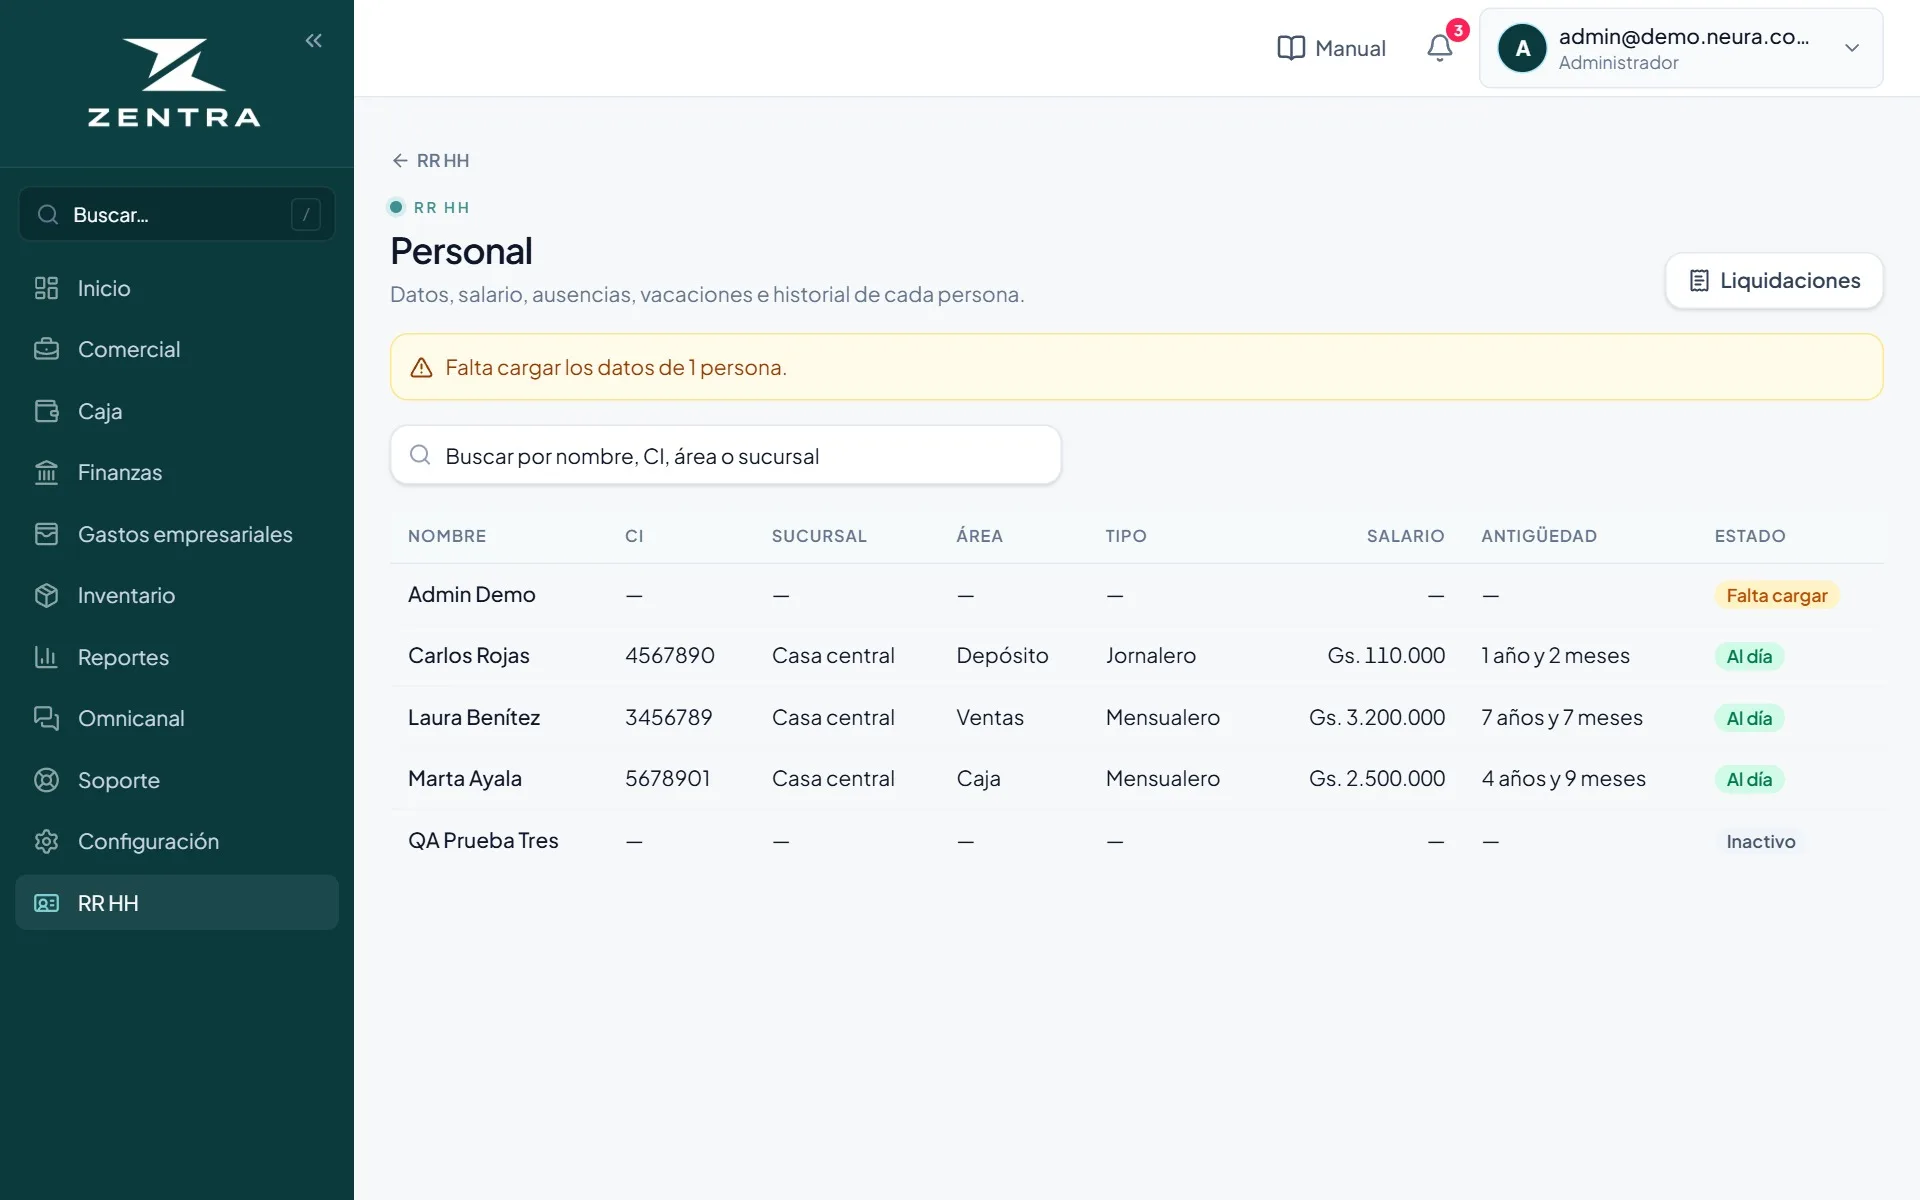
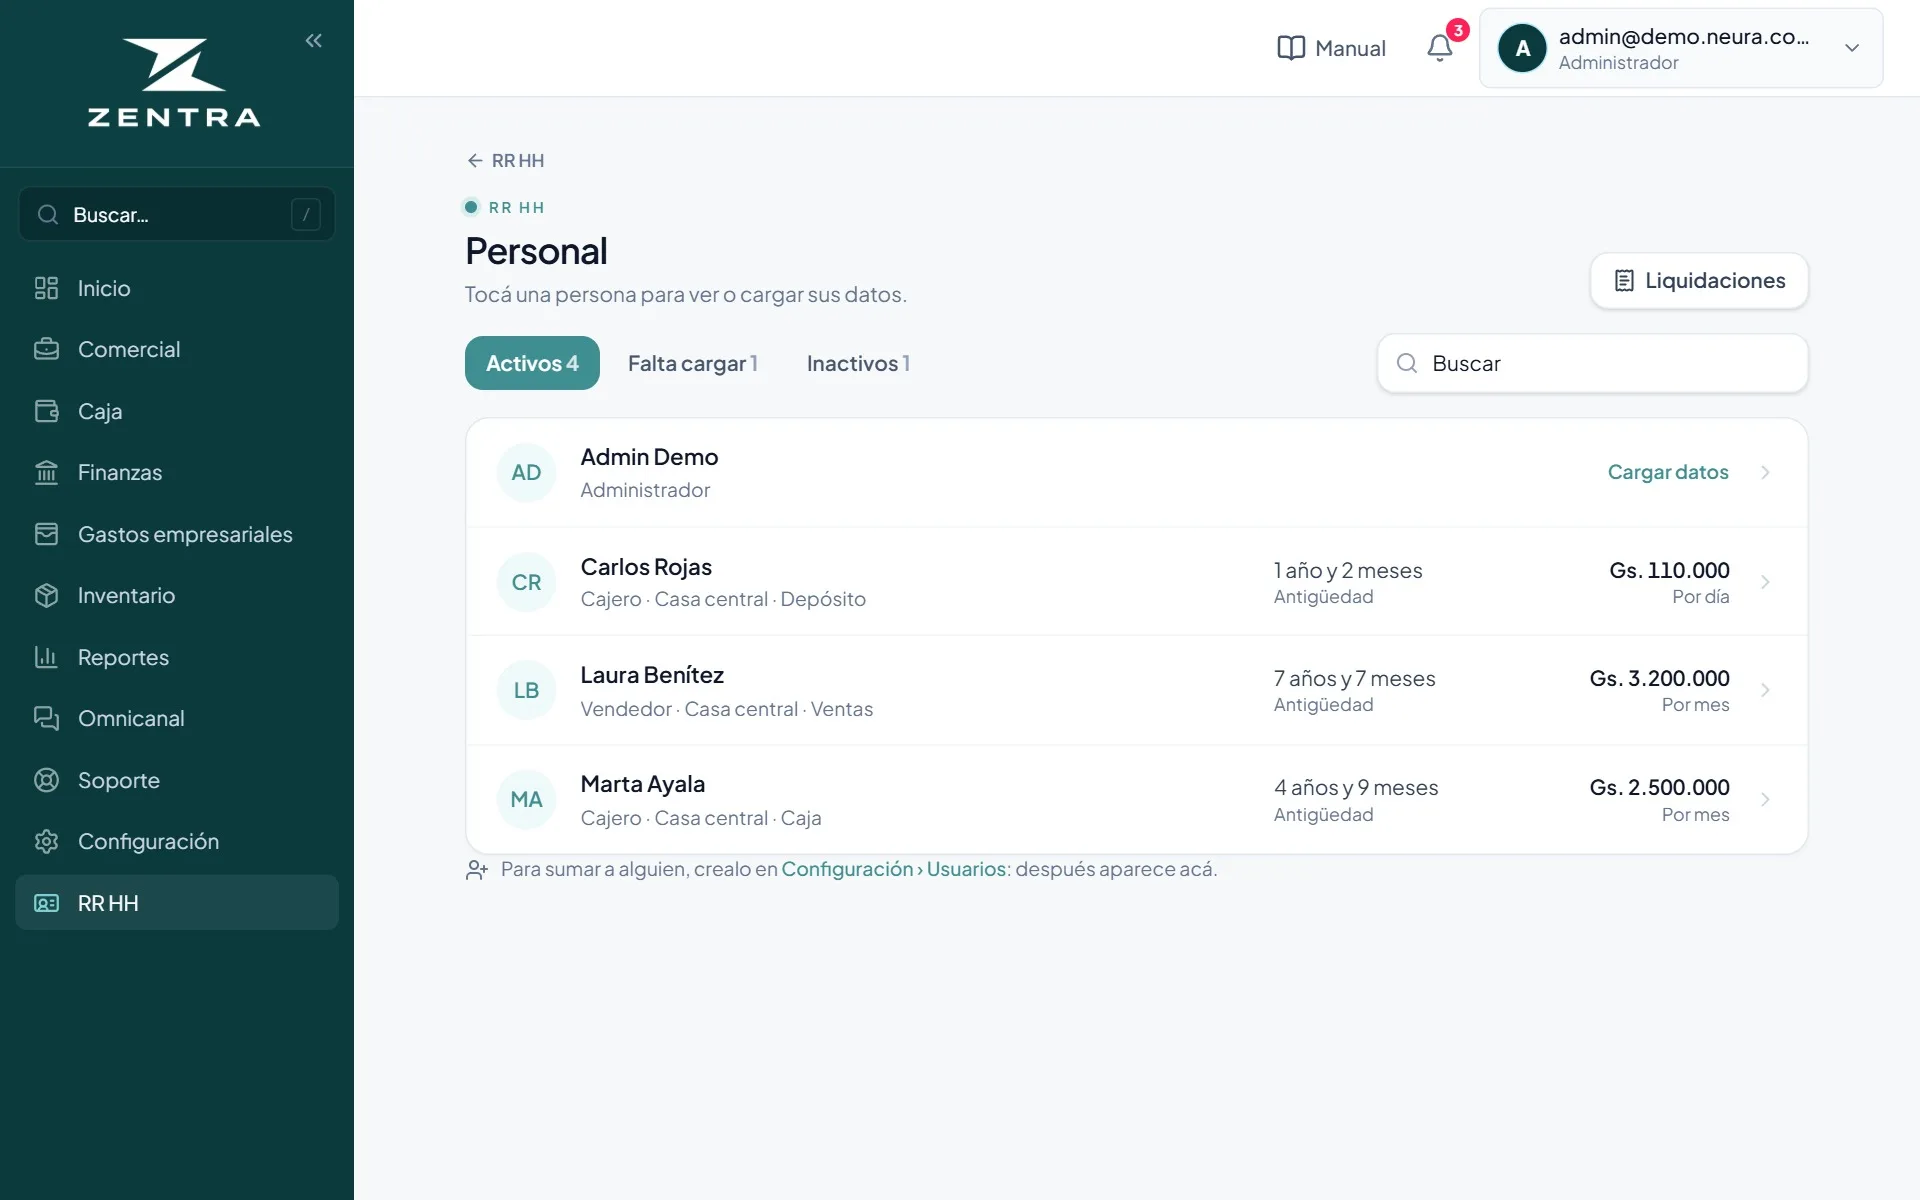
fix(2.0/rrhh): lista de Personal mas limpia
Lista de personas con iniciales y salario en lugar de la tabla con
columnas vacias; filtros por activos, falta cargar e inactivos.
Captura y guia del manual actualizadas.

diff --git a/src/app/(app)/rrhh/page.tsx b/src/app/(app)/rrhh/page.tsx
@@ -2,72 +2,113 @@
 
 /** /rrhh — Todos los usuarios del sistema con sus datos de RR HH (receta 118). Tocar uno abre su ficha. */
 import Link from "next/link";
-import { useRouter } from "next/navigation";
 import { useEffect, useMemo, useState } from "react";
-import { AlertTriangle, ReceiptText, Search } from "lucide-react";
+import { ChevronRight, ReceiptText, Search, UserPlus } from "lucide-react";
 import { apiFetch } from "@/lib/api/client-fetch";
 import { hoyPY } from "@/lib/fecha/paraguay";
 import { filtrar } from "@/lib/busqueda";
 import { EncabezadoPagina } from "@/components/EncabezadoPagina";
 import { gs } from "@/components/graficos/formato";
-import { TablaTarjetas } from "@/components/TablaResponsive";
 import { antiguedad, textoAntiguedad } from "@/modules/rrhh/calculo";
 import type { PersonaFila } from "@/modules/rrhh/tipos";
 import { BOTON, INPUT } from "@/modules/rrhh/ui";
 
+type Filtro = "activos" | "faltan" | "inactivos";
+
+const iniciales = (nombre: string) => nombre.trim().split(/\s+/).slice(0, 2).map((p) => p[0]?.toUpperCase() ?? "").join("");
+
+function Fila({ p, hoy }: { p: PersonaFila; hoy: string }) {
+  const detalle = [p.perfil, p.sucursal, p.area].filter(Boolean).join(" · ");
+  return (
+    <li>
+      <Link href={`/rrhh/${p.id}`} className="flex min-h-[72px] items-center gap-3 px-4 py-3 no-underline transition-colors hover:bg-slate-50 sm:gap-4 sm:px-5">
+        <span aria-hidden className={`grid h-10 w-10 shrink-0 place-items-center rounded-full text-sm font-semibold ${p.activo ? "bg-[var(--brand-50)] text-[var(--brand)]" : "bg-slate-100 text-slate-400"}`}>{iniciales(p.nombre)}</span>
+        <span className="min-w-0 flex-1">
+          <span className={`block truncate text-[15px] font-semibold ${p.activo ? "text-slate-900" : "text-slate-500"}`}>{p.nombre}</span>
+          {detalle ? <span className="mt-0.5 block truncate text-[13px] text-slate-500">{detalle}</span> : null}
+        </span>
+        {!p.activo ? (
+          <span className="shrink-0 text-[13px] font-medium text-slate-400">Inactivo</span>
+        ) : !p.tiene_legajo ? (
+          <span className="shrink-0 text-[13px] font-semibold text-[var(--brand)]">Cargar datos</span>
+        ) : (
+          <>
+            <span className="hidden w-36 shrink-0 md:block">
+              <span className="block text-sm text-slate-700">{p.fecha_ingreso ? textoAntiguedad(antiguedad(p.fecha_ingreso, p.fecha_egreso && p.fecha_egreso < hoy ? p.fecha_egreso : hoy)) : ""}</span>
+              <span className="block text-xs text-slate-500">Antigüedad</span>
+            </span>
+            <span className="shrink-0 text-right sm:w-36">
+              <span className="block text-sm font-semibold tabular-nums text-slate-900">{gs(p.salario)}</span>
+              <span className="block text-xs text-slate-500">{p.tipo_salario === "jornalero" ? "Por día" : "Por mes"}</span>
+            </span>
+          </>
+        )}
+        <ChevronRight aria-hidden className="h-4 w-4 shrink-0 text-slate-300" />
+      </Link>
+    </li>
+  );
+}
+
 export default function PaginaPersonal() {
-  const router = useRouter();
   const [filas, setFilas] = useState<PersonaFila[] | null>(null);
   const [error, setError] = useState<string | null>(null);
   const [q, setQ] = useState("");
+  const [filtro, setFiltro] = useState<Filtro>("activos");
 
   useEffect(() => {
     apiFetch<PersonaFila[]>("/api/rrhh").then(setFilas).catch((e: Error) => setError(e.message));
   }, []);
 
-  const visibles = useMemo(() => filtrar(filas ?? [], q, (p) => ({ principal: p.nombre, otros: [p.area, p.sucursal, p.perfil], documentos: [p.ci] })), [filas, q]);
-  const faltan = (filas ?? []).filter((p) => p.activo && !p.tiene_legajo).length;
+  const todas = filas ?? [];
+  const activos = todas.filter((p) => p.activo);
+  const faltan = activos.filter((p) => !p.tiene_legajo);
+  const inactivos = todas.filter((p) => !p.activo);
+  const delFiltro = filtro === "faltan" ? faltan : filtro === "inactivos" ? inactivos : activos;
+  const visibles = useMemo(() => filtrar(delFiltro, q, (p) => ({ principal: p.nombre, otros: [p.area, p.sucursal, p.perfil], documentos: [p.ci] })), [delFiltro, q]);
   const hoy = hoyPY();
 
+  const opciones: [Filtro, string, number][] = [
+    ["activos", "Activos", activos.length],
+    ["faltan", "Falta cargar", faltan.length],
+    ["inactivos", "Inactivos", inactivos.length],
+  ];
+
   return (
-    <div className="space-y-4">
-      <EncabezadoPagina kicker="RR HH" titulo="Personal" subtitulo="Datos, salario, ausencias, vacaciones e historial de cada persona." volver={{ href: "/rrhh/panel", label: "RR HH" }}
-        acciones={<Link href="/rrhh/liquidaciones" className={BOTON}><ReceiptText className="h-4 w-4" /> Liquidaciones</Link>} />
+    <div className="mx-auto max-w-4xl space-y-4">
+      <EncabezadoPagina titulo="Personal" subtitulo="Tocá una persona para ver o cargar sus datos." volver={{ href: "/rrhh/panel", label: "RR HH" }}
+        acciones={<Link href="/rrhh/liquidaciones" className={`${BOTON} no-underline max-sm:w-full`}><ReceiptText className="h-4 w-4" /> Liquidaciones</Link>} />
 
-      {faltan > 0 ? (
-        <p className="flex items-start gap-2 rounded-xl border border-amber-200 bg-amber-50 p-3 text-sm text-amber-800">
-          <AlertTriangle className="mt-0.5 h-4 w-4 shrink-0" /> {faltan === 1 ? "Falta cargar los datos de 1 persona." : `Falta cargar los datos de ${faltan} personas.`}
-        </p>
-      ) : null}
-
-      <div className="relative max-w-md">
-        <Search className="pointer-events-none absolute left-3 top-1/2 h-4 w-4 -translate-y-1/2 text-slate-400" />
-        <input className={`${INPUT} pl-9`} value={q} onChange={(e) => setQ(e.target.value)} placeholder="Buscar por nombre, CI, área o sucursal" aria-label="Buscar" />
+      <div className="flex flex-col gap-3 sm:flex-row sm:items-center sm:justify-between">
+        <div className="flex gap-1 overflow-x-auto [scrollbar-width:none]" role="tablist" aria-label="Filtrar personal">
+          {opciones.filter(([id, , n]) => id === "activos" || n > 0).map(([id, label, n]) => (
+            <button key={id} type="button" role="tab" aria-selected={filtro === id} onClick={() => setFiltro(id)}
+              className={`min-h-11 shrink-0 rounded-xl px-3.5 text-sm font-semibold transition-colors sm:min-h-9 ${filtro === id ? "bg-[var(--brand)] text-white" : "text-slate-600 hover:bg-slate-100"}`}>
+              {label} <span className={filtro === id ? "text-white/80" : "text-slate-400"}>{n}</span>
+            </button>
+          ))}
+        </div>
+        <div className="relative sm:w-72">
+          <Search className="pointer-events-none absolute left-3 top-1/2 h-4 w-4 -translate-y-1/2 text-slate-400" />
+          <input className={`${INPUT} pl-9`} value={q} onChange={(e) => setQ(e.target.value)} placeholder="Buscar" aria-label="Buscar por nombre, CI, área o sucursal" />
+        </div>
       </div>
 
       {error ? <p className="rounded-xl bg-rose-50 p-3 text-sm text-rose-700">{error}</p> : null}
       {!filas && !error ? <p className="text-sm text-slate-400">Cargando…</p> : null}
       {filas ? (
-        <TablaTarjetas
-          filas={visibles}
-          claveFila={(p) => p.id}
-          onFila={(p) => router.push(`/rrhh/${p.id}`)}
-          columnas={[
-            { key: "nombre", titulo: "Nombre", movil: "titulo", celda: (p) => <span className="font-medium text-slate-900">{p.nombre}</span> },
-            { key: "ci", titulo: "CI", movil: "dato", celda: (p) => p.ci ?? "—" },
-            { key: "sucursal", titulo: "Sucursal", movil: "subtitulo", celda: (p) => p.sucursal ?? "—" },
-            { key: "area", titulo: "Área", movil: "dato", celda: (p) => p.area ?? "—" },
-            { key: "tipo", titulo: "Tipo", movil: "dato", celda: (p) => (p.tipo_salario === "jornalero" ? "Jornalero" : p.tipo_salario === "mensualero" ? "Mensualero" : "—") },
-            { key: "salario", titulo: "Salario", movil: "valor", claseTh: "text-right", claseTd: "text-right tabular-nums", celda: (p) => (p.salario == null ? "—" : gs(p.salario)) },
-            { key: "antiguedad", titulo: "Antigüedad", movil: "detalle", celda: (p) => (p.fecha_ingreso ? textoAntiguedad(antiguedad(p.fecha_ingreso, p.fecha_egreso && p.fecha_egreso < hoy ? p.fecha_egreso : hoy)) : "—") },
-            { key: "estado", titulo: "Estado", movil: "chip", celda: (p) => (
-              !p.activo ? <span className="rounded-full bg-slate-100 px-2 py-0.5 text-xs font-semibold text-slate-600">Inactivo</span>
-              : !p.tiene_legajo ? <span className="rounded-full bg-amber-100 px-2 py-0.5 text-xs font-semibold text-amber-700">Falta cargar</span>
-              : <span className="rounded-full bg-emerald-100 px-2 py-0.5 text-xs font-semibold text-emerald-700">Al día</span>
-            ) },
-          ]}
-        />
+        visibles.length ? (
+          <ul className="m-0 list-none divide-y divide-slate-100 overflow-hidden rounded-2xl border border-slate-200 bg-white p-0 shadow-[0_1px_2px_rgba(15,23,42,0.04)]">
+            {visibles.map((p) => <Fila key={p.id} p={p} hoy={hoy} />)}
+          </ul>
+        ) : (
+          <p className="rounded-2xl border border-slate-200 bg-white p-10 text-center text-sm text-slate-400">{q ? "No hay nadie con esa búsqueda." : "No hay nadie en esta lista."}</p>
+        )
       ) : null}
+
+      <p className="flex items-start gap-2 text-[13px] text-slate-500">
+        <UserPlus aria-hidden className="mt-0.5 h-4 w-4 shrink-0" />
+        <span>Para sumar a alguien, crealo en <Link href="/configuracion/usuarios" className="font-medium text-[var(--brand)]">Configuración › Usuarios</Link>: después aparece acá.</span>
+      </p>
     </div>
   );
 }

diff --git a/src/app/(app)/rrhh/liquidaciones/page.tsx b/src/app/(app)/rrhh/liquidaciones/page.tsx
@@ -153,7 +153,7 @@ export default function PaginaLiquidaciones() {
 
   return (
     <div className="space-y-4">
-      <EncabezadoPagina kicker="RR HH" titulo="Liquidaciones" subtitulo="Extracto del mes para revisar con el asesor. No genera pagos ni gastos." volver={{ href: "/rrhh/panel", label: "RR HH" }}
+      <EncabezadoPagina titulo="Liquidaciones" subtitulo="Extracto del mes para revisar con el asesor. No genera pagos ni gastos." volver={{ href: "/rrhh/panel", label: "RR HH" }}
         acciones={
           <div className="flex flex-wrap gap-2 max-sm:w-full max-sm:[&>*]:flex-1">
             {puedeExportar ? <button type="button" className={BOTON} disabled={!filas.length} onClick={() => void descargarArchivo(`/api/rrhh/liquidaciones/export?mes=${mes}`, `liquidacion-${mes}.xlsx`).catch((e: Error) => setError(e.message))}><Download className="h-4 w-4" /> Excel</button> : null}

diff --git a/src/modules/manual/contenido.ts b/src/modules/manual/contenido.ts
@@ -836,7 +836,7 @@ export const GUIAS: Guia[] = [
     bloques: [
       { texto: "Acá aparecen los usuarios del sistema. Para sumar a alguien, primero crealo en Configuración › Usuarios." },
       { img: "rrhh-lista", alt: "Lista del personal", pasos: [
-        { t: "Las personas sin datos dicen Falta cargar.", marca: "Falta cargar" },
+        { t: "En Falta cargar están las personas sin datos.", d: "En la lista dicen Cargar datos.", marca: "Falta cargar" },
         { t: "Tocá el nombre de la persona.", marca: "Laura Benítez" },
       ] },
       { img: "rrhh-ficha", alt: "Ficha de la persona", pasos: [
